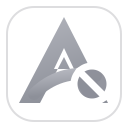
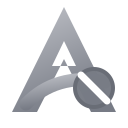
Popraw czytelność ikony Apex w pasku Chrome
Responsive branding dla 16/32/48/128 px, przezroczyste mikro-ikony ON/OFF i większe użycie znaku w popupie, ustawieniach i welcome. Bez zmian funkcjonalnych.

Changed region(s): [[0.0312, 0.0312, 0.9688, 0.9688], [0.6875, 0.5938, 0.7188, 0.625]]

diff --git a/options/options.html b/options/options.html
@@ -3,13 +3,14 @@
 <head>
   <meta charset="utf-8">
   <meta name="viewport" content="width=device-width, initial-scale=1">
+  <meta name="color-scheme" content="light dark">
   <title>Apex AdBlocker – ustawienia</title>
   <link rel="stylesheet" href="options.css">
 </head>
 <body>
   <div class="wrap">
     <header>
-      <img src="../icons/icon48.png" alt="" width="36" height="36">
+      <img src="../icons/icon48.png" alt="" width="40" height="40">
       <div>
         <h1>Apex AdBlocker</h1>
         <div class="muted">Bloker reklam dla Chrome · wersja <span id="version"></span></div>

diff --git a/welcome/welcome.html b/welcome/welcome.html
@@ -10,7 +10,7 @@
 <body>
   <main class="wrap">
     <header class="brand">
-      <img src="../icons/icon48.png" alt="" width="48" height="48">
+      <img src="../icons/icon128.png" alt="" width="56" height="56">
       <div>
         <h1>Witaj w Apex AdBlocker</h1>
         <p class="muted">Lekki bloker reklam dla Chrome</p>

diff --git a/popup/popup.html b/popup/popup.html
@@ -8,7 +8,7 @@
 </head>
 <body>
   <header class="top">
-    <img src="../icons/icon32.png" alt="" width="22" height="22">
+    <img src="../icons/icon32.png" alt="" width="24" height="24">
     <span class="brand">Apex AdBlocker</span>
     <span class="version" id="version"></span>
   </header>
